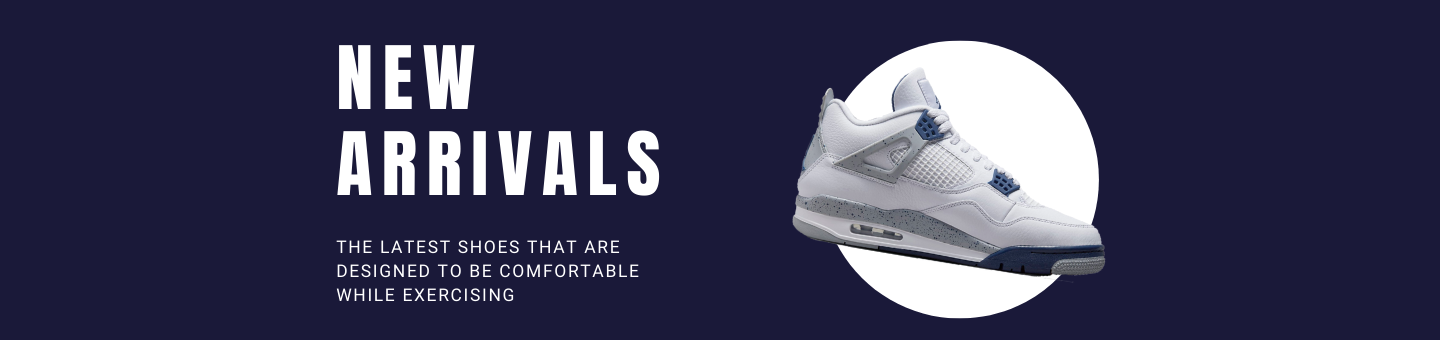
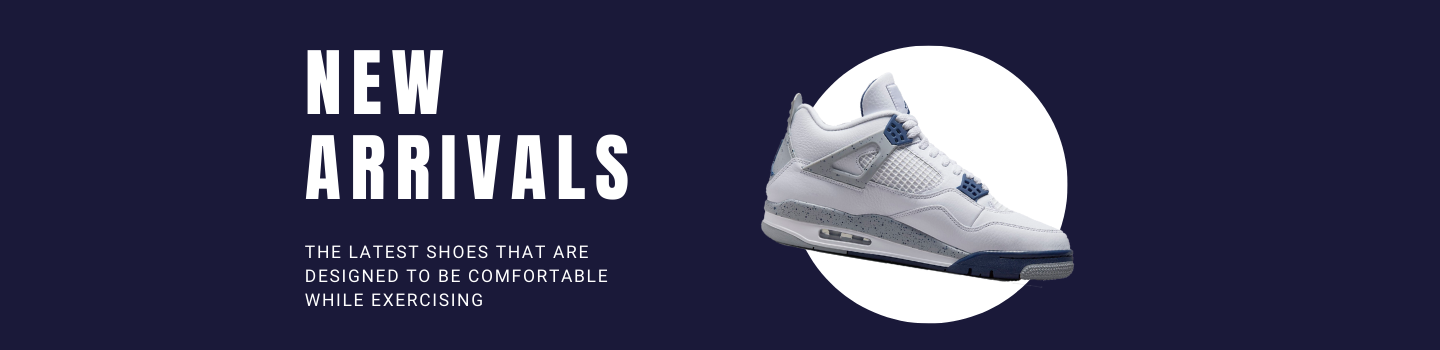
adjust carousel photo size

diff --git a/src/App.css b/src/App.css
@@ -34,7 +34,7 @@ main {
 }
 
 .home {
-  margin: 4rem 9rem;
+  margin: 3rem 9rem;
 }
 
 .content {
